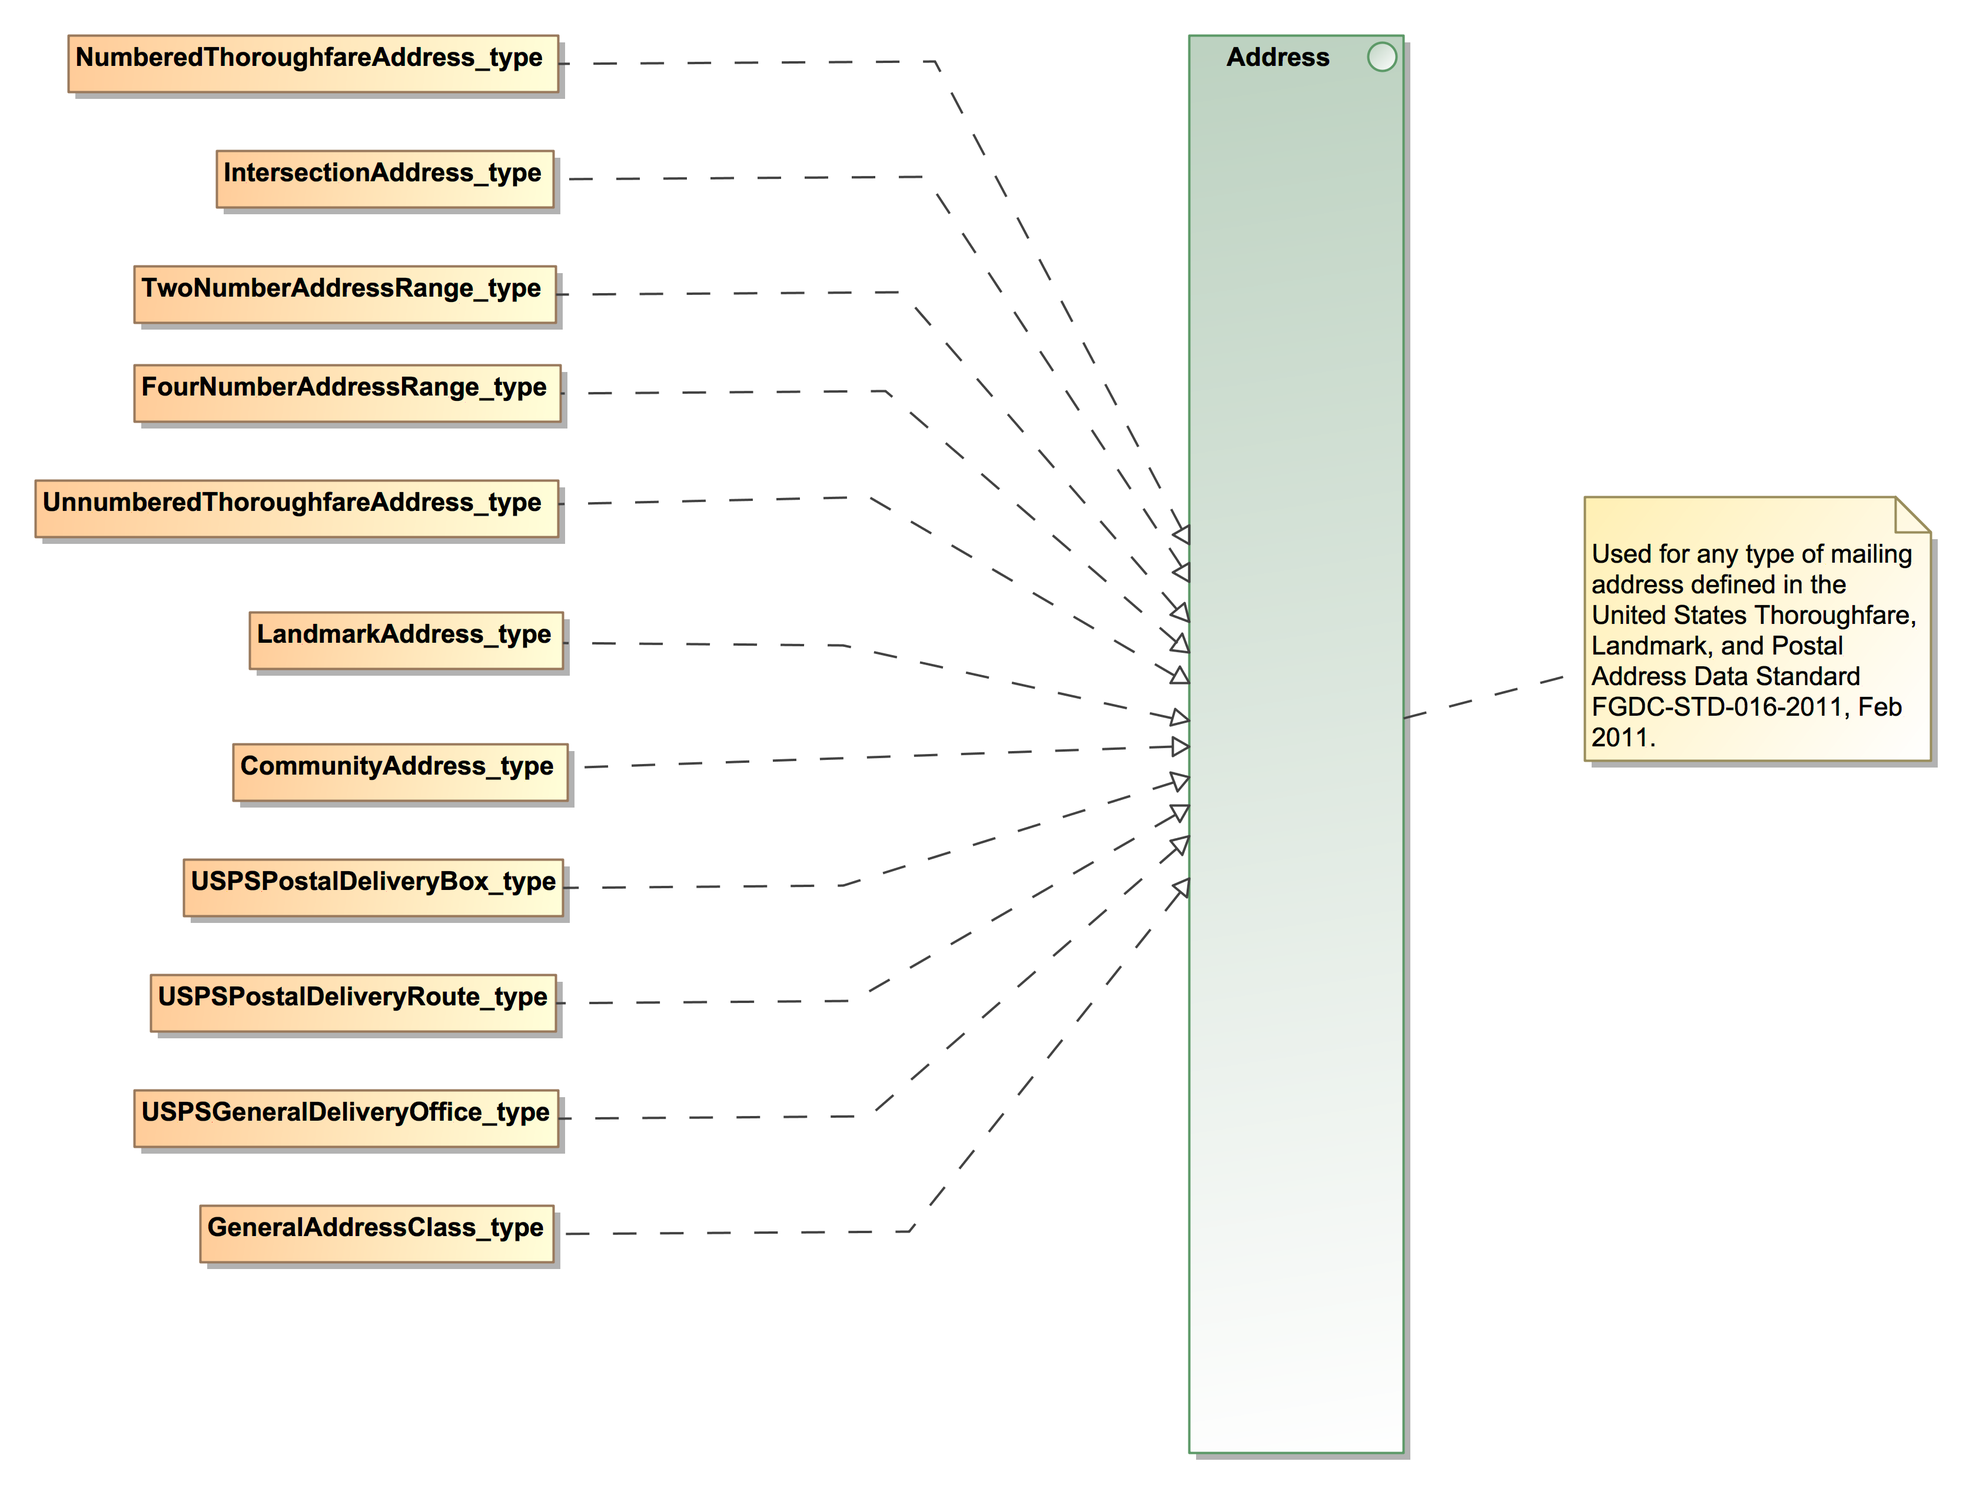
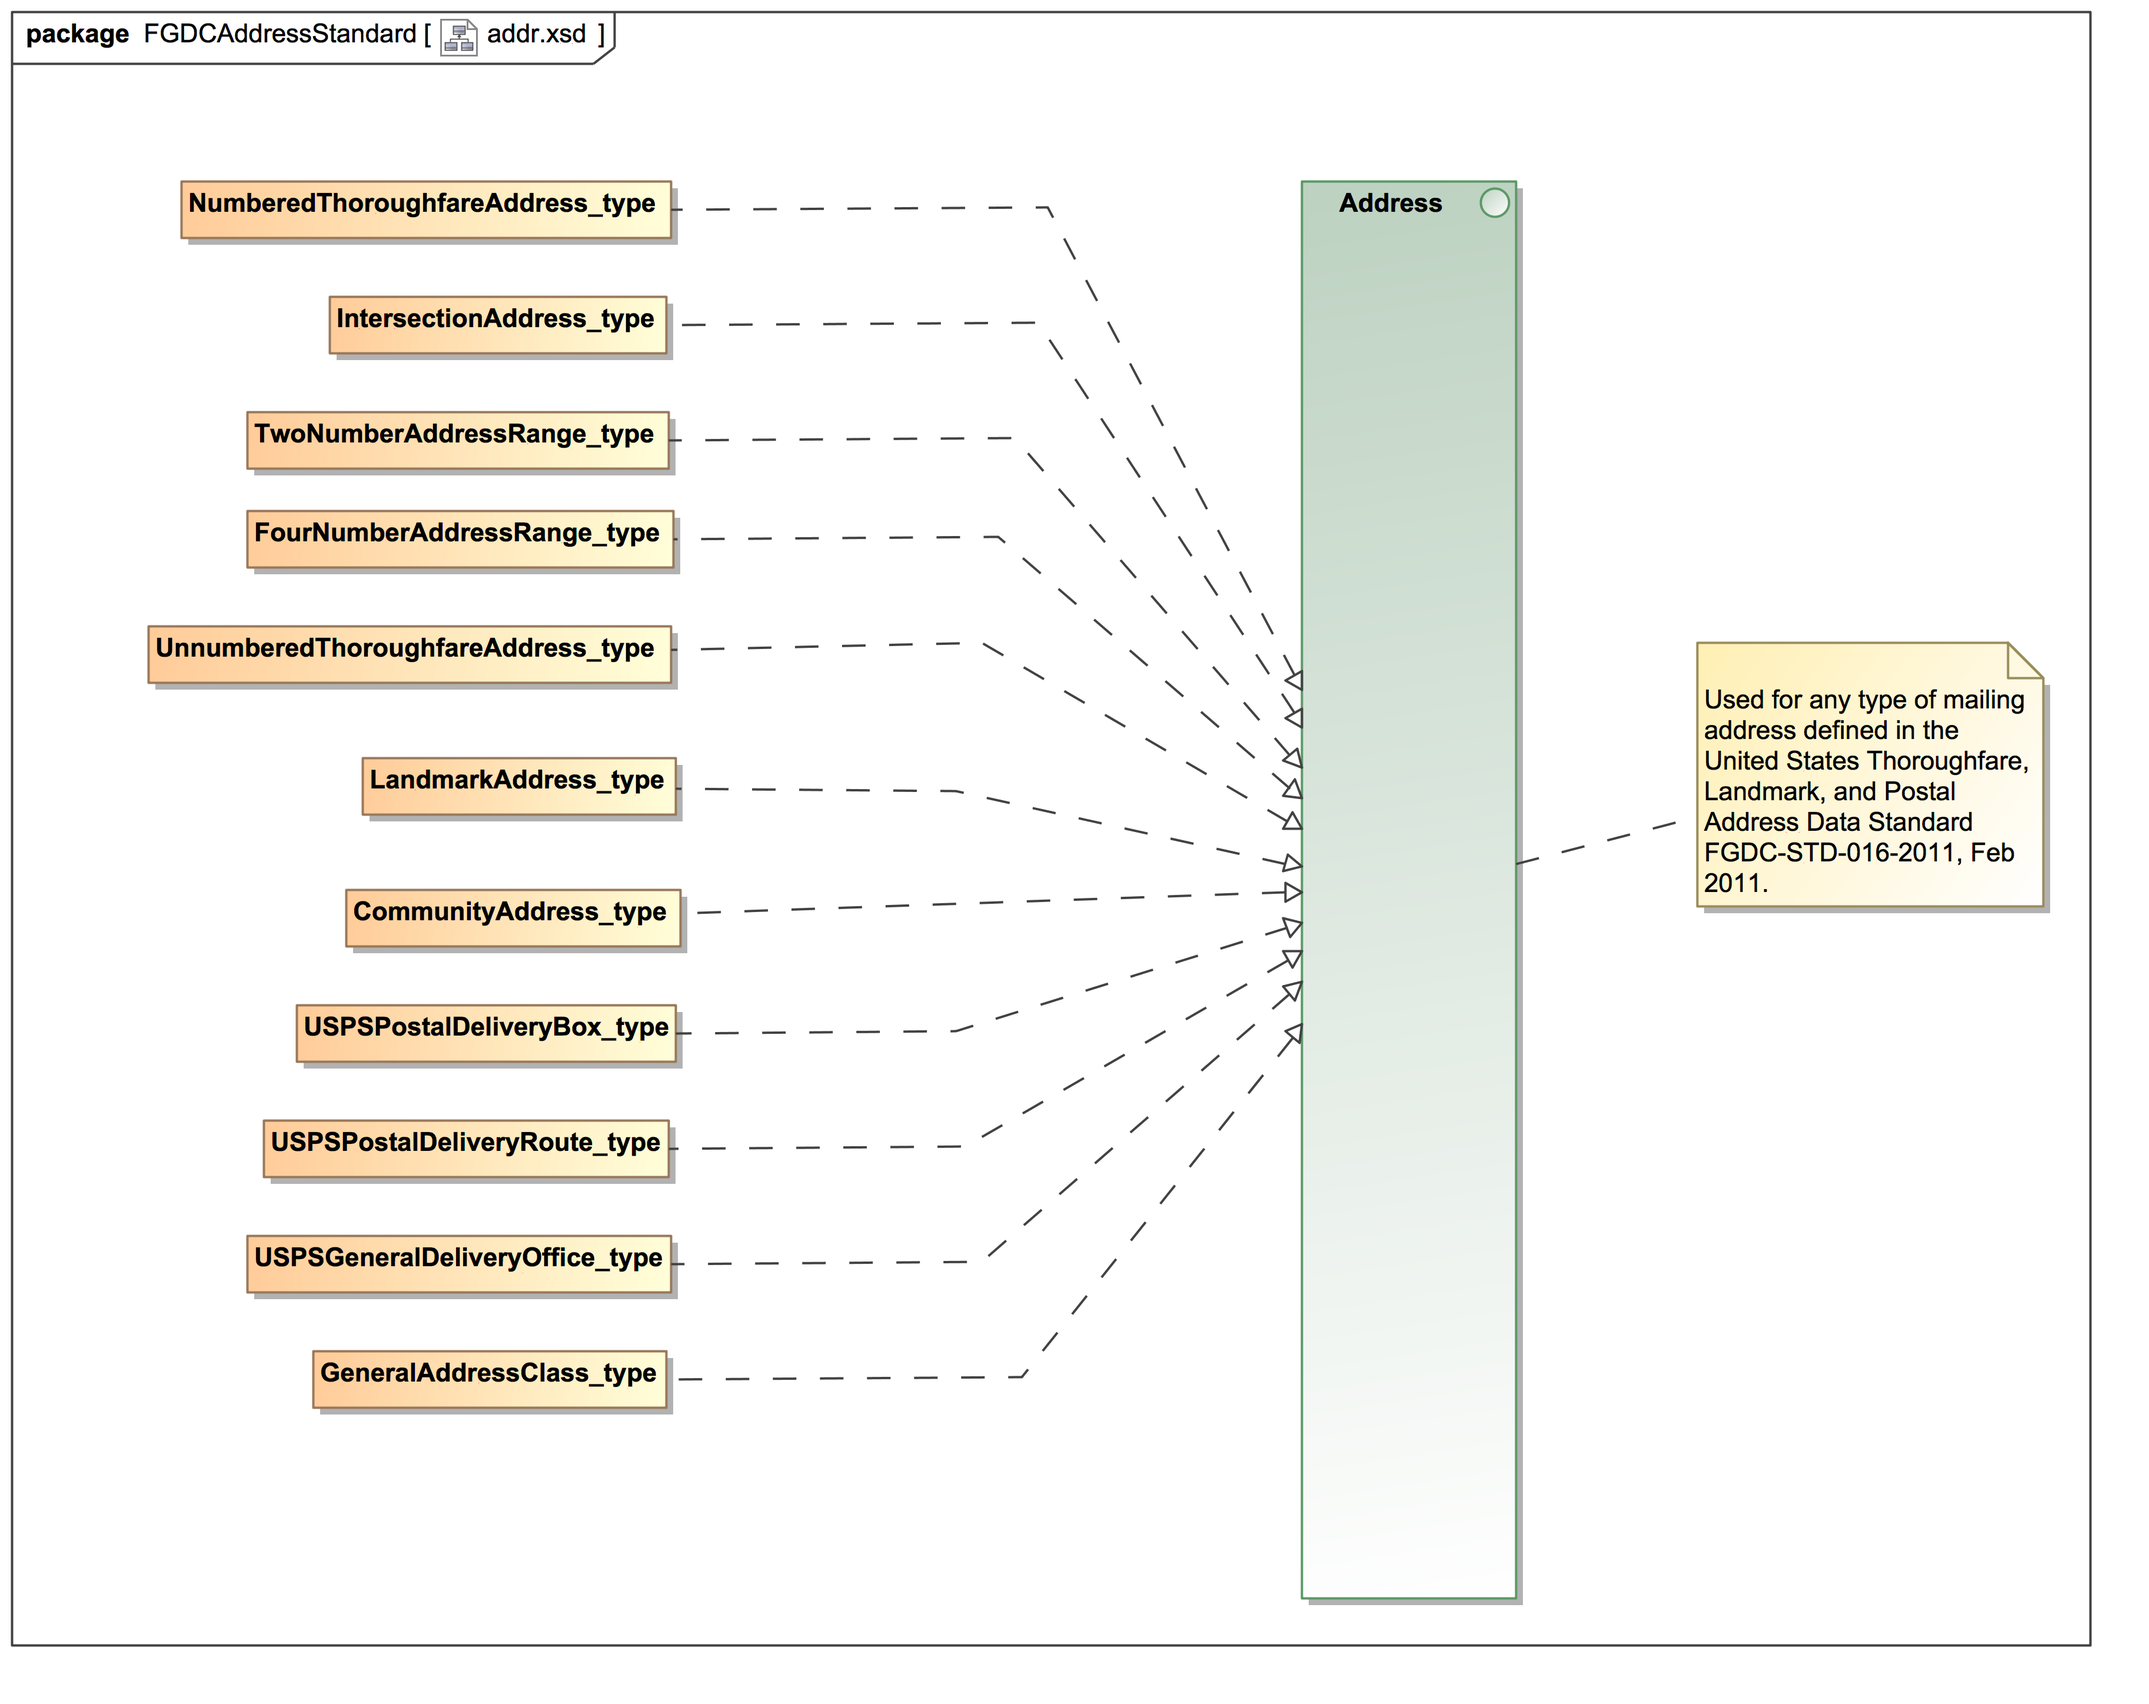
updated figures and added new text

diff --git a/index.md b/index.md
@@ -7,7 +7,9 @@
 
 **August 2017**
 
-v12
+
+*NOTE: this version of the VRI spec is the most recent and to be used for reviews; an older version in PDF is available on the VRI GitHub repository.  Once the VRI spec is finalized, both versions of the spec will be synced.*
+
 
     NIST Special Publication series 1500 is intended to capture external perspectives related to NIST
     standards, measurement, and testing-related efforts. These external perspectives can come from
@@ -218,7 +220,7 @@ This section presents an overview of the digital OVR voter registration request 
 
 ## 2.1 Voter Records Request Transaction
 
-The digital NVRA and FPCA forms form the basis for digital OVR registration.  The NVRA form is used for U.S. non-military citizen registrations whereas the FPCA form is used by U.S. military, their families, and citizens residing outside the U.S. to register and, if desired, request a ballot at the same time.
+The digital NVRA and FPCA forms form the basis for digital OVR registration.  The NVRA form is used for U.S. non-military citizen registrations whereas the FPCA form is used by U.S. military, their families, and citizens residing outside the U.S. to register and, if desired, request a ballot at the same time. (Note: the U.S. Department of Defense's Federal Voting Assistance Program (FVAP) is currently revising its August 2013 Standard Form 76, or the Federal Post Card Application, for release later in 2017.  XML and JSON schemas will be updated to reflect changes made to the FPCA form.)
 
 <div class="text-center" markdown="1">
 <img src="Figures/NVRA.png" height="900"/>
